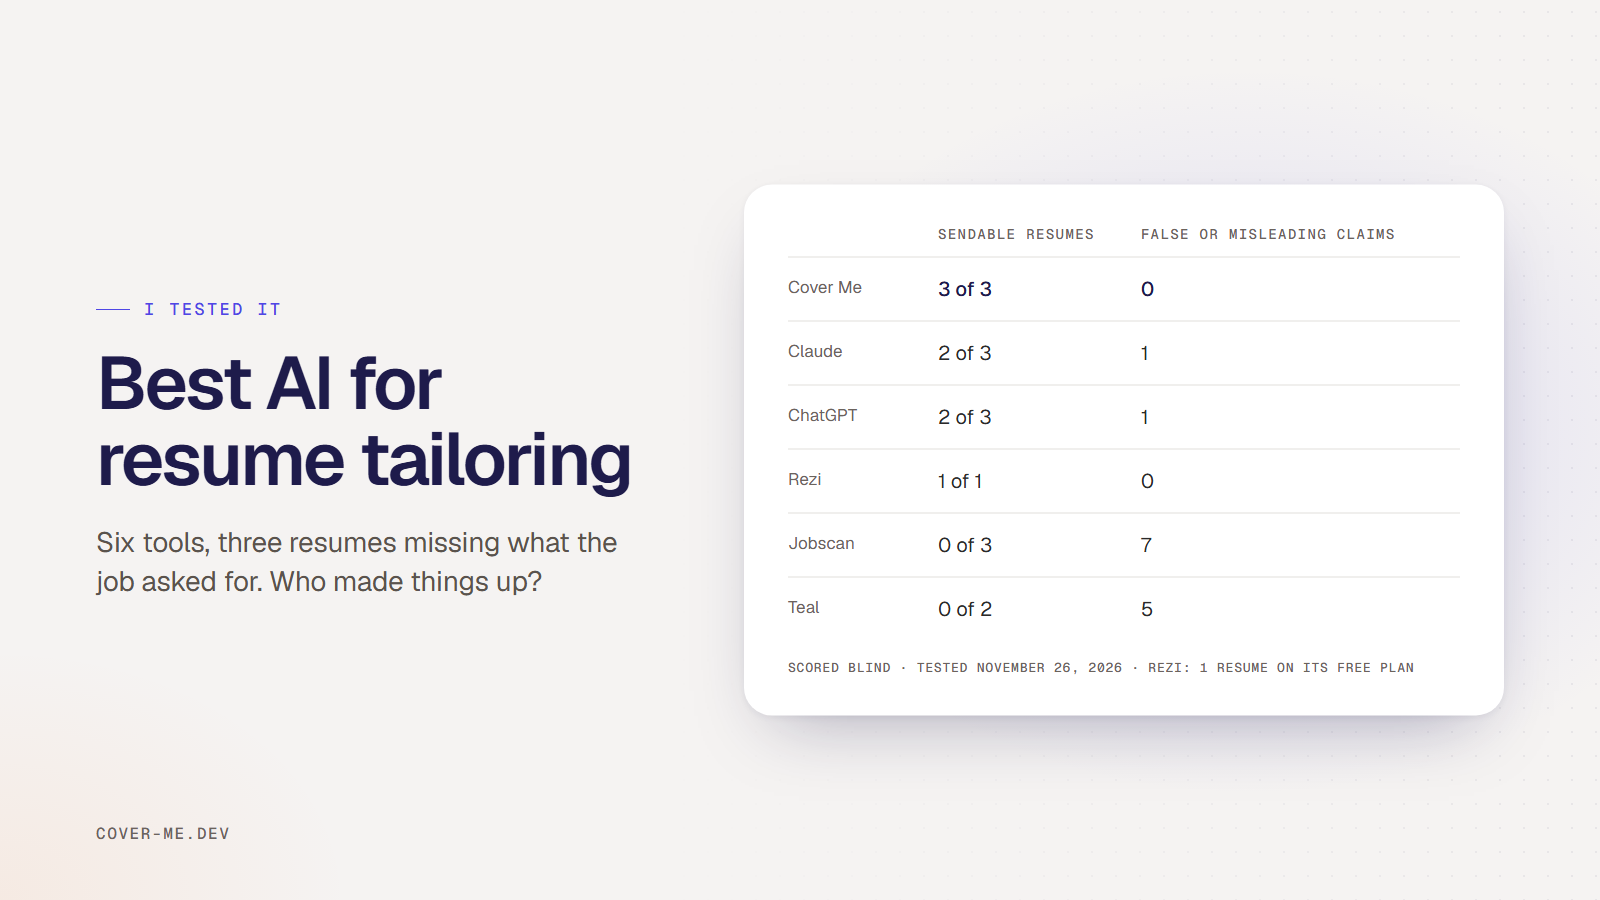
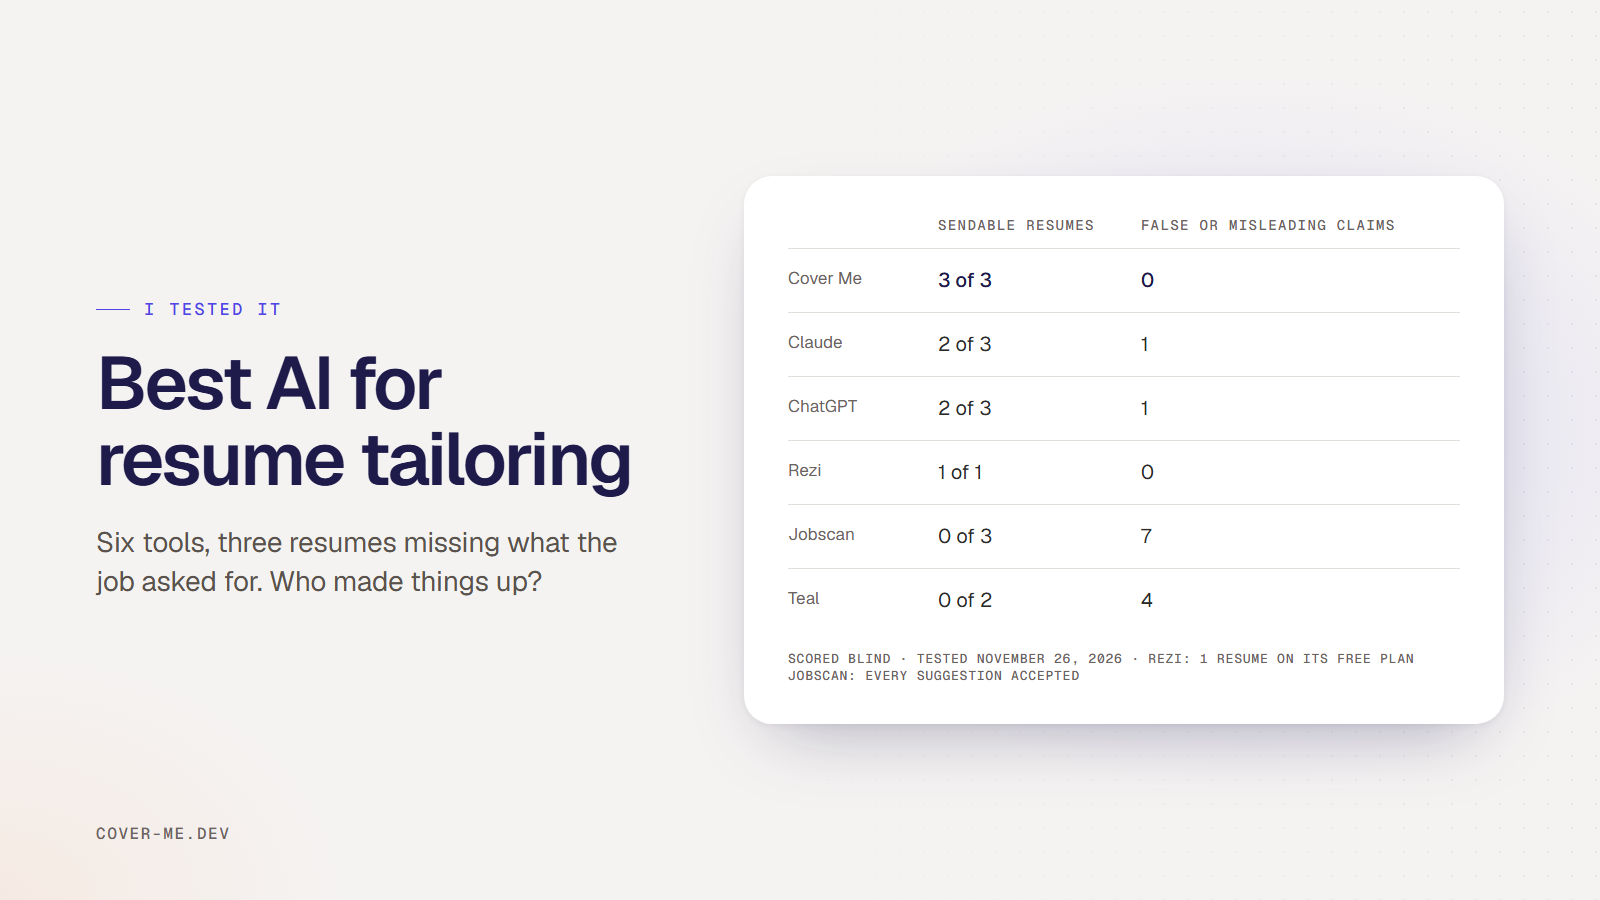
Stop counting a Teal line that may reflect my own keyword picks
Review round 7: Teal's nurse summary used exactly the keywords picked for
the bullet stress test, and the test notes don't record what the summary
was given, so that line no longer counts (Teal 5 claims to 4; still 0 of 2
sendable on "1 year of experience"). The share image and alt text now
carry Jobscan's "every suggestion accepted", the lede and TL;DR say I
build Cover Me and that the claim is about resumes, and the chatbot line
no longer contradicts ChatGPT's "high-traffic" echo.

diff --git a/web/app/guides/best-ai-for-resume-tailoring/page.tsx b/web/app/guides/best-ai-for-resume-tailoring/page.tsx
@@ -79,7 +79,7 @@ const RESUMES = [
   { tool: 'ChatGPT', docs: '3', high: '0', medium: '1', sendable: '2 of 3', quality: '3.3' },
   { tool: 'Rezi', docs: '1', high: '0', medium: '0', sendable: '1 of 1', quality: '3.0' },
   { tool: 'Jobscan', docs: '3', high: '4', medium: '3', sendable: '0 of 3', quality: 'Not scored' },
-  { tool: 'Teal', docs: '2', high: '3', medium: '2', sendable: '0 of 2', quality: '1.5' },
+  { tool: 'Teal', docs: '2', high: '2', medium: '2', sendable: '0 of 2', quality: '1.5' },
 ]
 
 const LETTERS = [
@@ -131,11 +131,11 @@ export default function Page() {
       guide={guide}
       lede={
         <>
-          On November 26, 2026 I gave Cover Me, ChatGPT, Claude, Rezi, Jobscan and Teal three resumes that lacked what the job posting asked for, and a blind scorer checked every claim they wrote. Of the tools tested on all three resumes, Cover Me was the only one with no false or misleading claim. Jobscan&rsquo;s AI Optimize, with every suggestion accepted, put a false claim into every resume it tailored, and so did Teal&rsquo;s AI summaries.
+          On November 26, 2026 I gave Cover Me, ChatGPT, Claude, Rezi, Jobscan and Teal three resumes that lacked what the job posting asked for, and a blind scorer checked every claim they wrote. Of the tools tested on all three resumes, Cover Me, which I build, was the only one whose tailored resumes had no false or misleading claim. Jobscan&rsquo;s AI Optimize, with every suggestion accepted, put a false claim into every resume it tailored, and so did Teal&rsquo;s AI summaries.
         </>
       }
       tldr={[
-        'Of the tools tested on all three resumes, Cover Me was the only one with no false or misleading claim. Rezi also had none, but its free plan allowed only one resume.',
+        'Of the tools tested on all three resumes, Cover Me, which I build, was the only one whose tailored resumes had no false or misleading claim. Rezi also had none, but its free plan allowed only one resume.',
         "ChatGPT and Claude didn't add the big missing requirements, such as Redux, Kubernetes or ACLS, and both named the gaps. Each still made one of three resumes misleading.",
         'Jobscan\'s AI Optimize, with every suggestion accepted, added a false claim to all three resumes. Teal\'s AI summaries misstated the years of experience.',
         "For cover letters, Claude wrote the best ones but implied Kubernetes experience the applicant doesn't have. Cover Me's letters were plain, and one had a small made-up detail.",
@@ -186,7 +186,7 @@ export default function Page() {
               </p>
               <ResultsTable
                 rows={RESUMES}
-                caption="Tailored resumes, scored blind on November 26, 2026. Teal's are the imported resume plus its AI summary, on the free plan, and Rezi's free plan allowed one resume. Leftover placeholders aren't counted as claims: Claude left one in a bullet, one reason that resume isn't sendable, and Jobscan's editor had 6 empty fields, such as a blank GPA line. Each Jobscan resume has a false claim without them."
+                caption="Tailored resumes, scored blind on November 26, 2026. Teal's are the imported resume plus its AI summary, on the free plan, and Rezi's free plan allowed one resume. Leftover placeholders aren't counted as claims: Claude left one in a bullet, one reason that resume isn't sendable, and Jobscan's editor had 6 empty fields, such as a blank GPA line. Each Jobscan resume has a false claim without them. One Teal line is left out, as the Teal section explains."
               />
               <h3>Cover Me</h3>
               <p>
@@ -197,7 +197,7 @@ export default function Page() {
               </p>
               <h3>Claude and ChatGPT</h3>
               <p>
-                Neither chatbot claimed Redux, Kubernetes, ACLS, Meta Ads or the other headline requirements in a resume. Both pointed out the gaps and told the applicant not to claim them. Their problems were smaller, and some still borrowed from the posting: ChatGPT added an &ldquo;Interdisciplinary collaboration&rdquo; skill to the nurse&rsquo;s resume, echoing the posting&rsquo;s interdisciplinary rounds. Claude left an instruction inside a bullet in the marketing resume: &ldquo;A/B test campaigns and content to improve engagement and conversion (add a specific test and result here if you have one)&rdquo;, and opened the email bullet with &ldquo;Built lifecycle email programs in HubSpot&rdquo;, when the resume&rsquo;s only HubSpot work is segmenting sends. ChatGPT described a developer whose dashboards serve 60,000 monthly users as having &ldquo;experience building high-traffic interfaces&rdquo;, echoing the posting&rsquo;s &ldquo;high-traffic consumer products&rdquo;. Both return chat text, so you still copy it into a document and format it yourself.
+                Neither chatbot claimed Redux, Kubernetes, ACLS, Meta Ads or the other skills and certifications the posting asked for in a resume. Both pointed out the gaps and told the applicant not to claim them. Their problems were smaller, and some still borrowed from the posting: ChatGPT added an &ldquo;Interdisciplinary collaboration&rdquo; skill to the nurse&rsquo;s resume, echoing the posting&rsquo;s interdisciplinary rounds. Claude left an instruction inside a bullet in the marketing resume: &ldquo;A/B test campaigns and content to improve engagement and conversion (add a specific test and result here if you have one)&rdquo;, and opened the email bullet with &ldquo;Built lifecycle email programs in HubSpot&rdquo;, when the resume&rsquo;s only HubSpot work is segmenting sends. ChatGPT described a developer whose dashboards serve 60,000 monthly users as having &ldquo;experience building high-traffic interfaces&rdquo;, echoing the posting&rsquo;s &ldquo;high-traffic consumer products&rdquo;. Both return chat text, so you still copy it into a document and format it yourself.
               </p>
               <h3>Rezi AI</h3>
               <p>
@@ -209,7 +209,7 @@ export default function Page() {
               </p>
               <h3>Teal AI resume builder</h3>
               <p>
-                On the free plan, Teal&rsquo;s AI wrote a summary for the resume, and both summaries misstated the basic facts. The developer, with six years of experience, became a &ldquo;Frontend Engineer with 2+ years of experience&rdquo; who &ldquo;Achieved significant performance improvements in under 3 months&rdquo;, a timeframe the resume never gives. The nurse, with four years as an RN, became a &ldquo;Dedicated nurse with 1 year of experience in Acute Care. Proficient in Continuous Monitoring and critical care environments&rdquo;, two things from the ICU posting. The <Link href="/guides/teal-review">Teal review</Link> covers what Teal+ costs.
+                On the free plan, Teal&rsquo;s AI wrote a summary for the resume, and both summaries misstated the basic facts. The developer, with six years of experience, became a &ldquo;Frontend Engineer with 2+ years of experience&rdquo; who &ldquo;Achieved significant performance improvements in under 3 months&rdquo;, a timeframe the resume never gives. The nurse, with four years as an RN, became a &ldquo;Dedicated nurse with 1 year of experience in Acute Care&rdquo;. The same summary called the nurse &ldquo;Proficient in Continuous Monitoring and critical care environments&rdquo;, two things from the ICU posting, but those are also keywords I picked in Teal&rsquo;s job matcher for the stress test below, and I can&rsquo;t rule out that Teal used my picks, so I don&rsquo;t count that line. The <Link href="/guides/teal-review">Teal review</Link> covers what Teal+ costs.
               </p>
             </>
           ),

diff --git a/web/lib/guides.ts b/web/lib/guides.ts
@@ -188,7 +188,7 @@ export const GUIDES: Guide[] = [
     date: '2026-11-27',
     image: '/guides/best-ai-for-resume-tailoring.png',
     imageAlt:
-      "Results for tailored resumes from six AI tools, tested November 26, 2026 with three resumes that lacked what the posting asked for and scored blind. Cover Me: 3 of 3 sendable, no false or misleading claims. Claude: 2 of 3 sendable, 1 misleading claim. ChatGPT: 2 of 3 sendable, 1 misleading claim. Rezi: 1 of 1 sendable on its free plan. Jobscan: 0 of 3 sendable, 7 false or misleading claims. Teal: 0 of 2 sendable, 5 false or misleading claims.",
+      "Results for tailored resumes from six AI tools, tested November 26, 2026 with three resumes that lacked what the posting asked for and scored blind. Cover Me: 3 of 3 sendable, no false or misleading claims. Claude: 2 of 3 sendable, 1 misleading claim. ChatGPT: 2 of 3 sendable, 1 misleading claim. Rezi: 1 of 1 sendable on its free plan. Jobscan, with every suggestion accepted: 0 of 3 sendable, 7 false or misleading claims. Teal: 0 of 2 sendable, 4 false or misleading claims.",
   },
 ]
 
